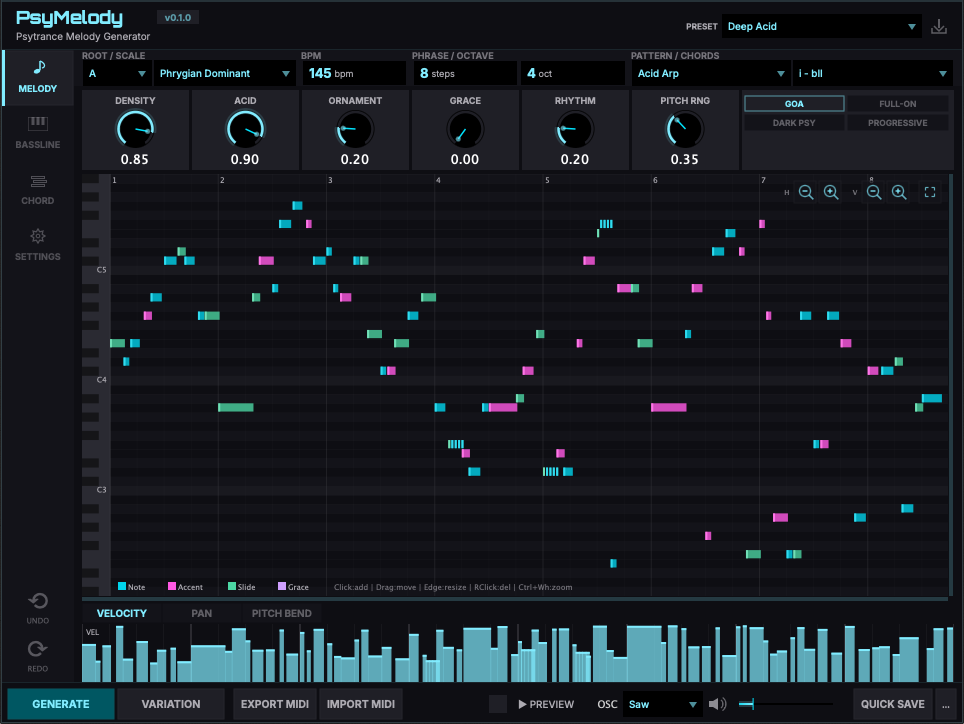
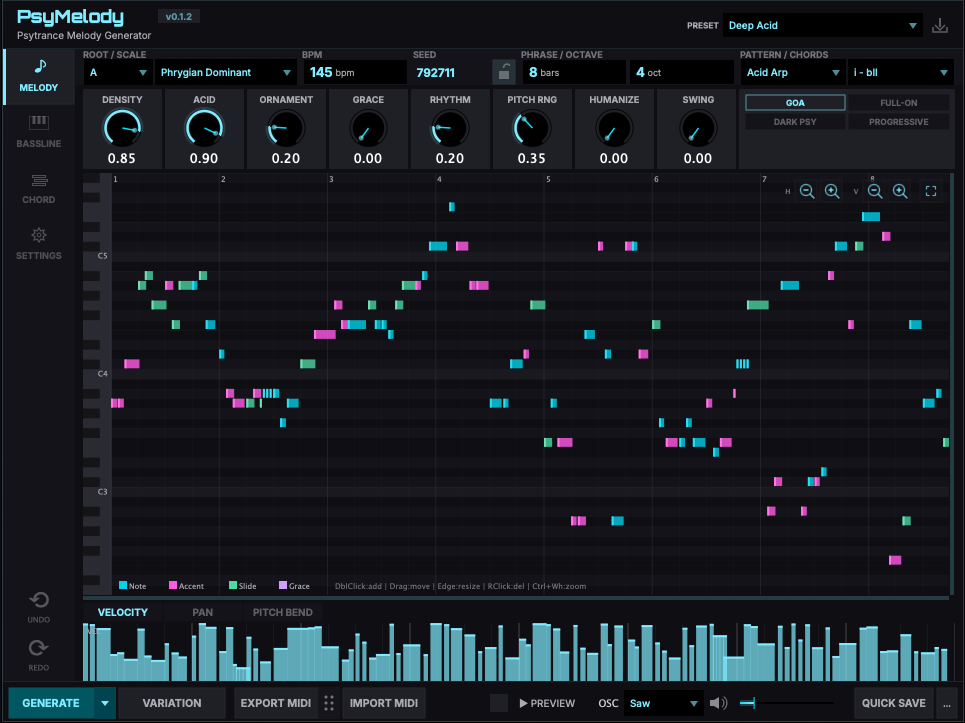
Update README for v0.1.2: features, latest-release link, new screenshot
Claude-Session: https://claude.ai/code/session_018jxEqwFQPQhbHxRbCSqdVs

diff --git a/README.md b/README.md
@@ -8,17 +8,21 @@ PsyMelody is a MIDI generator plugin for Psytrance music production. It generate
 
 ## Download
 
-**[Download PsyMelody v0.1.0](https://github.com/efirio-git/PsyMelody/releases/tag/v0.1.0)**
+**[Download the latest release](https://github.com/efirio-git/PsyMelody/releases/latest)**
 
 ## Features
 
 - **Melody / Bassline / Chord Voicing** generation
 - **Subgenres**: Goa, Full-On, Dark Psy, Progressive Psy
-- **Built-in piano roll** editor with undo/redo
+- **Seed lock** — reproduce the exact same phrase, tweak one parameter at a time
+- **Humanize / Swing** knobs for natural timing and shuffle feel
+- **Partial regeneration** — new pitches (keep rhythm) or new rhythm (keep pitches)
+- **Euclidean rhythm mode** driven by the Density knob
+- **Built-in piano roll** editor with undo/redo and velocity / pan / pitch-bend lanes
+- **Drag & drop MIDI export** straight into your DAW, plus file export / import
 - **Preview synth** (Saw / Square / Sine / Triangle)
-- **MIDI export / import**
 - **Preset system** with save/load
-- **DAW BPM sync**
+- **DAW BPM sync**, English / Japanese UI with tooltips on every control
 
 ## System Requirements
 
@@ -28,12 +32,13 @@ PsyMelody is a MIDI generator plugin for Psytrance music production. It generate
 
 ## Installation
 
-1. Open `PsyMelody_v0.1.0.dmg`
+1. Open the downloaded `PsyMelody_vX.Y.Z.dmg`
 2. Run `PsyMelody_Installer.pkg`
 3. Click **Customize** to select VST3 and/or AU
 4. Restart your DAW and rescan plugins
 
 See [Installation Guide](docs/Installation_Guide.md) for DAW-specific setup instructions.
+Full feature documentation lives in the [specification](docs/SPEC.md) (Japanese).
 
 ## Building from Source
 
